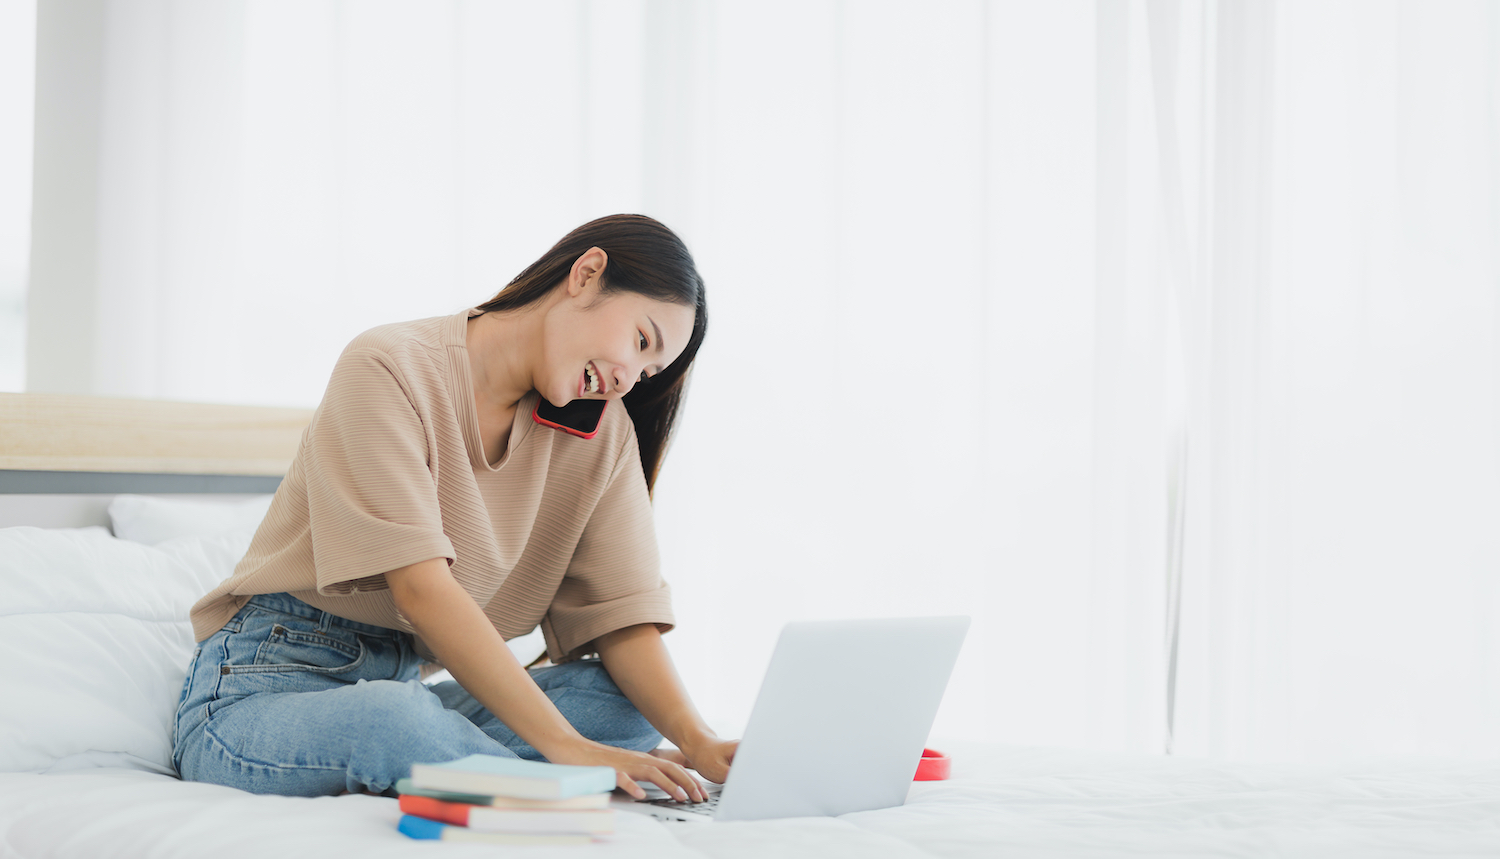
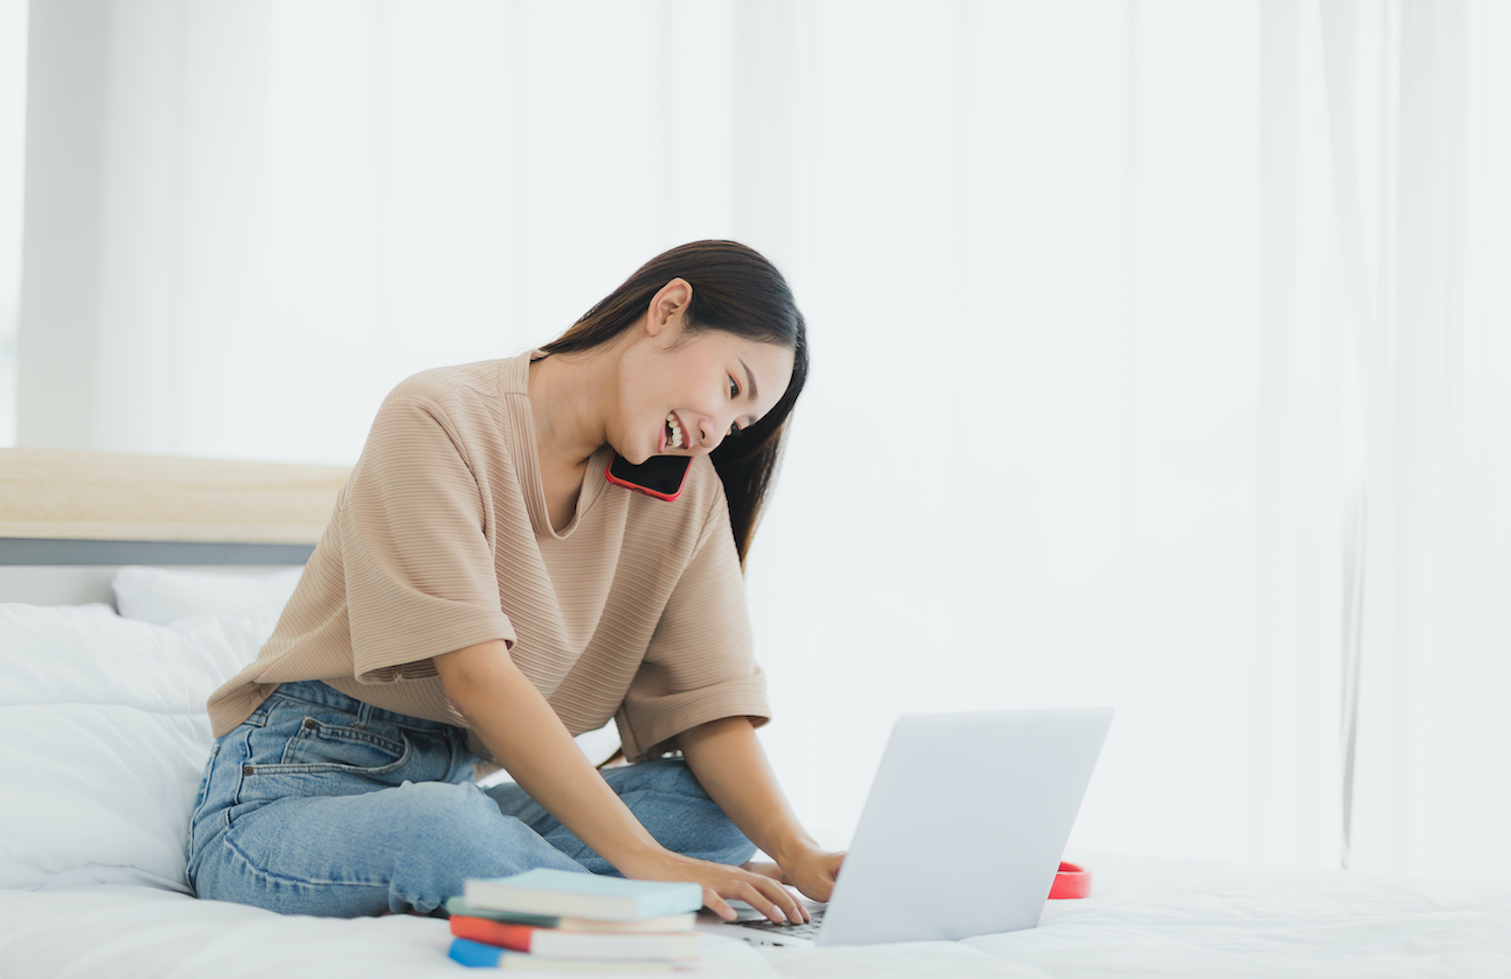
added minimal styling and images to help items section on landing page

diff --git a/src/routes/LandingPage/LandingPage.js b/src/routes/LandingPage/LandingPage.js
@@ -34,17 +34,17 @@ class LandingPage extends Component {
                     <h2>What our helpers can do for you</h2>
                     <div className={styles.iconList}>
                         <div className={styles.iconSection}>
-                            {/* icon here */}
-                            <h3 className={styles.iconHeading}>Picking up supplies</h3>
+                            <img className={styles.iconImage} src={require("../../images/supplies.jpg")} alt="man handing supplies to older couple" />
+                            <h3 className={styles.iconHeading}>Pick up supplies</h3>
                             <p className={styles.iconSubheading}>Running low on groceries, medicine, or household supplies? Our helpers can grab anything you need and drop them off at your doorstep.</p>
                         </div>
                         <div className={styles.iconSection}>
-                            {/* icon here */}
-                            <h3 className={styles.iconHeading}>Dog walking</h3>
+                            <img className={styles.iconImage} src={require("../../images/dog.jpg")} alt="woman walking dog wearing a face mask" />
+                            <h3 className={styles.iconHeading}>Walk your dog</h3>
                             <p className={styles.iconSubheading}>Our helpers can take your furry friend for a safe stroll if you don’t feel comfortable being out and about.</p>
                         </div>
                         <div className={styles.iconSection}>
-                            {/* icon here */}
+                            <img className={styles.iconImage} src={require("../../images/phone.jpg")} alt="woman talking on the phone looking at laptop" />
                             <h3 className={styles.iconHeading}>Friendly chat</h3>
                             <p className={styles.iconSubheading}>We know that quarantining can be an isolating and frightening time. Our helpers can offer a friendly chat through our secure instant messaging system.</p>
                         </div>

diff --git a/src/routes/LandingPage/LandingPage.module.css b/src/routes/LandingPage/LandingPage.module.css
@@ -24,7 +24,7 @@
     height: 100vh;
     position: absolute;
     top: 0;
-    right: -30px;
+    right: 0px;
     z-index: 0;
     opacity: 0.9;
 }
@@ -35,11 +35,11 @@
 }
 
 .first {
-    margin-top: 100vh;
+    margin-top: 90vh;
 }
 
 .section {
-    height: 70vh;
+    padding: 80px 0px;
 }
 
 .icons {
@@ -114,10 +114,38 @@
     width: 100%;
 }
 
+.icons {
+    background-color: #ebeef2;
+}
+
 .iconList {
     display: flex;
+    padding: 0px 30px;
 }
 
 .icons h2 {
     font-size: 35px;
+}
+
+.iconImage {
+    height: auto;
+    width: 100%;
+}
+
+.iconSection {
+    display: flex;
+    flex-direction: column;
+    align-items: center;
+    margin: 50px;
+}
+
+.iconHeading {
+    align-self: flex-start;
+    margin-bottom: 0px;
+}
+
+.iconSubheading {
+    width: 100%;
+    margin: 10px 15px;
+    display: block;
 }
